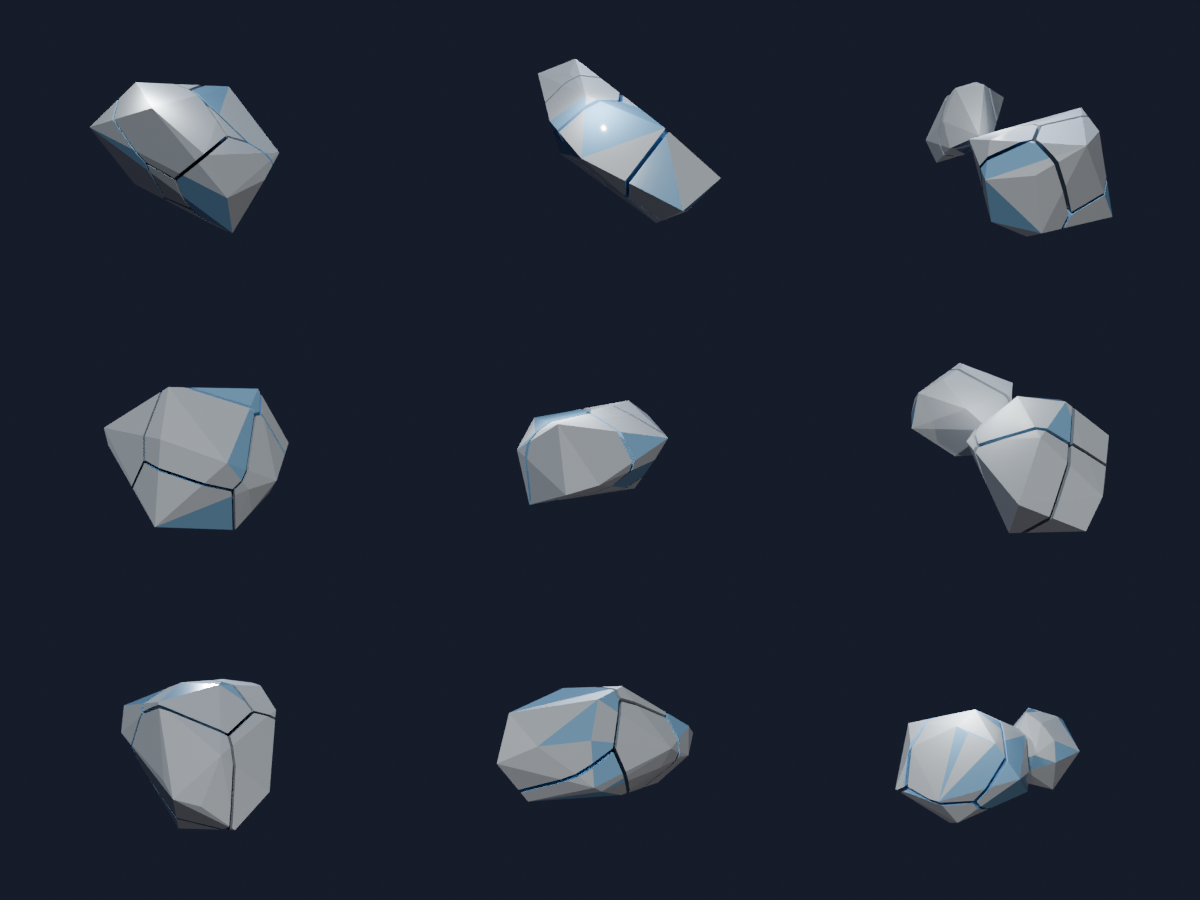
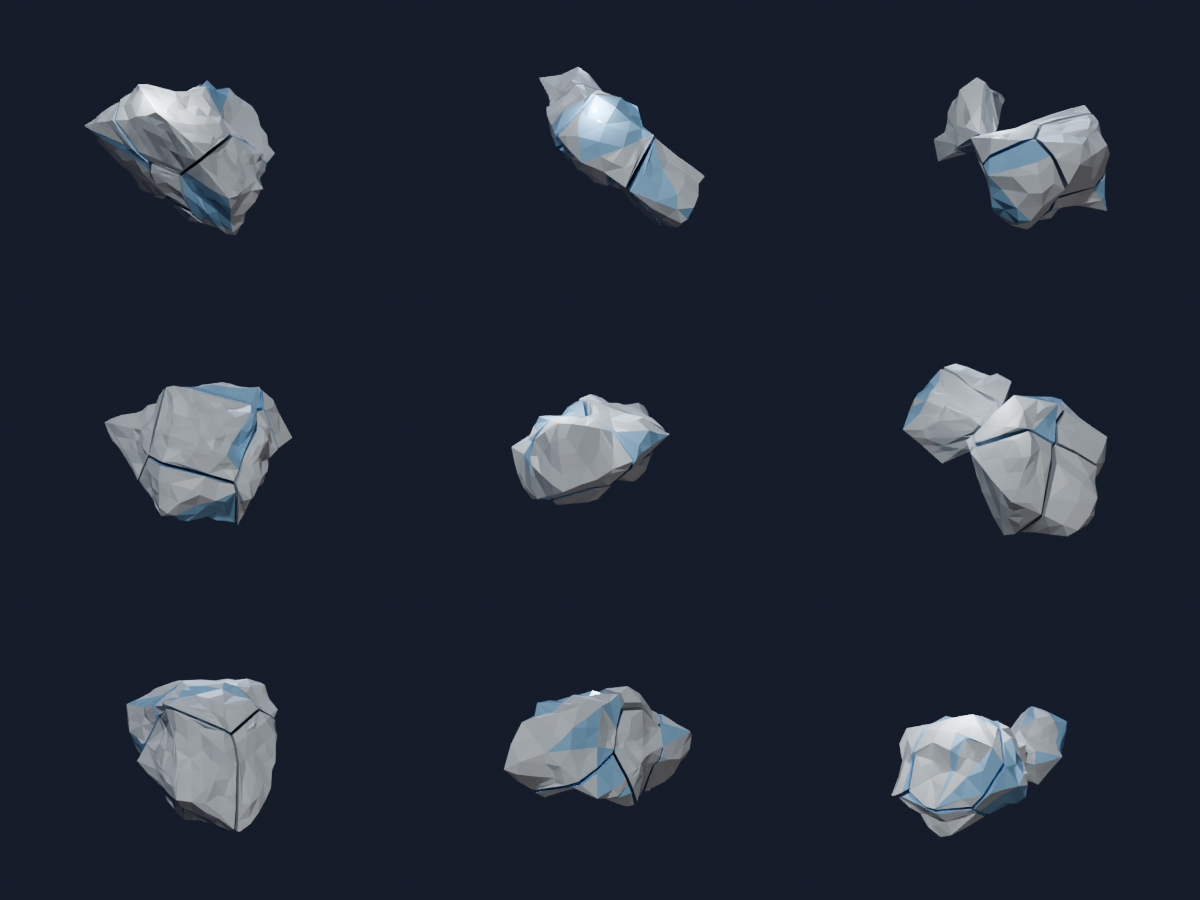
Asteroids: rough surface (noise, chips, craters) with a convex collider per chunk
surface.py breaks the big flat facets: the surface faces of every chunk are cut into smaller
triangles and pushed along the radial direction by world-space noise (two octaves plus a small
per-vertex chip) and by craters (bowl and rim). Because it only depends on the world position,
neighbouring chunks and sub-chunks match where they meet. Break faces stay flat.

The visible mesh is no longer convex, so each chunk gets a child "<name>_col-convcolonly"
(exact convex hull of its vertices) instead of the "-convcol" mesh suffix. New params:
roughness (0..1), craters (0..12). Tests check closed meshes, convex colliders that contain
their mesh, and sub-chunks close to their parent. Variant sheets and a close-up regenerated.

Claude-Session: https://claude.ai/code/session_0189xRjiiTMx3apXWGHbTKDT

diff --git a/shipgen/asteroids/__init__.py b/shipgen/asteroids/__init__.py
@@ -4,8 +4,9 @@
 
 The rock is the convex hull of random points (two hulls cut apart for a binary
 asteroid), split into Voronoi cells; cells bigger than about twice ``min_chunk_m``
-split again, down to ``max_levels``. Every chunk is convex, so in Godot it is its own
-convex collision shape (``-convcol`` suffix: mesh + collider).
+split again, down to ``max_levels``. Chunks are convex; their surface faces are then
+roughened (``surface.py``: smaller triangles, world-space noise, craters), so each chunk
+carries its own convex collider (``<name>_col-convcolonly``, the hull of its vertices).
 
 Hierarchy (what the game uses): ``Asteroid`` -> level-1 chunks (visible, they tile the
 whole rock) -> each chunk's own sub-chunks (hidden in Blender, in place; the .glb has all
@@ -34,9 +35,10 @@ from ..generator import clear as _clear
 from ..generator.materials import MATERIAL_PREFIX
 from . import geometry as geo
 from . import params as params_mod
+from . import surface as surface_mod
 
 COLLECTION = "ShipGen_Asteroid"
-SUFFIX = "-convcol"  # Godot: mesh + convex collision shape
+COL_SUFFIX = "_col-convcolonly"  # Godot: convex collision shape (child of the chunk's mesh)
 
 # density t/m^3, hardness (mining time factor, ore = 1), grade = resource share of a rich
 # chunk's volume, cargo kind as in the ships' stats, colours (surface, plain inside, resource)
@@ -64,6 +66,7 @@ class Chunk:
     rich: bool
     children: list["Chunk"] = field(default_factory=list)
     obj: object = None
+    collider: object = None
 
 
 @dataclass
@@ -79,7 +82,7 @@ class Asteroid:
 
     @property
     def objects(self):
-        return [self.root, *(c.obj for c in self.chunks)]
+        return [self.root, *(c.obj for c in self.chunks), *(c.collider for c in self.chunks)]
 
 
 def generate(raw_params: dict) -> Asteroid:
@@ -89,13 +92,13 @@ def generate(raw_params: dict) -> Asteroid:
     warnings = list(result.warnings)
     levels = p["max_levels"]
     while True:
-        tree, fractures = _fracture(p, levels)
-        tris = sum(_tris(c.points) for c in _walk(tree))
+        tree, fractures, surf = _fracture(p, levels)
+        rock = _build_objects(p, tree, fractures, surf)
+        tris = sum(len(poly.vertices) - 2 for c in rock.chunks for poly in c.obj.data.polygons)
         if tris <= p["max_tris"] or levels == 1:
             break
         levels -= 1
         warnings.append(f"max_levels reduced to {levels} to stay within max_tris ({tris} tris)")
-    rock = _build_objects(p, tree, fractures)
     rock.warnings = warnings
     return rock
 
@@ -129,10 +132,11 @@ def _base_pieces(p, rng) -> list[list[Vector]]:
     return [[(rot @ q) * scale for q in piece] for piece in pieces]
 
 
-def _fracture(p, levels: int) -> tuple[list[Chunk], list[tuple[Vector, float]]]:
-    """Chunk tree + every fracture plane (break faces lie on one of them)."""
+def _fracture(p, levels: int):
+    """Chunk tree, every fracture plane (break faces lie on one of them) and the rock surface."""
     rng = random.Random(f"{p['seed']}:{p['composition']}:asteroid")
     pieces = _base_pieces(p, rng)
+    surf = surface_mod.make_surface(p, pieces, random.Random(f"{p['seed']}:{p['composition']}:surface"))
     fractures: list[tuple[Vector, float]] = []
     total = sum(geo.volume(pc) for pc in pieces)
     top: list[Chunk] = []
@@ -158,20 +162,13 @@ def _fracture(p, levels: int) -> tuple[list[Chunk], list[tuple[Vector, float]]]:
 
     for chunk in top:
         split(chunk)
-    return top, fractures
+    return top, fractures, surf
 
 
 def _walk(chunks):
     for c in chunks:
         yield c
         yield from _walk(c.children)
-
-
-def _tris(points) -> int:
-    bm = geo.hull_bmesh(points)
-    n = sum(len(f.verts) - 2 for f in bm.faces)
-    bm.free()
-    return n
 
 
 # ---------------------------------------------------------------- objects and stats
@@ -200,7 +197,7 @@ def _on_fracture(n: Vector, d: float, fractures, tol: float, inset: float = 0.0)
     return False
 
 
-def _build_objects(p, tree: list[Chunk], fractures) -> Asteroid:
+def _build_objects(p, tree: list[Chunk], fractures, surf) -> Asteroid:
     _clear(COLLECTION)
     coll = bpy.data.collections.new(COLLECTION)
     bpy.context.scene.collection.children.link(coll)
@@ -222,15 +219,20 @@ def _build_objects(p, tree: list[Chunk], fractures) -> Asteroid:
             if _on_fracture(n, d, fractures, tol):
                 pts = geo.clip(pts, n, d - inset)
         bm = geo.hull_bmesh(pts)
+        layer = bm.faces.layers.int.new(surface_mod.FRACTURE_LAYER)
         rng = random.Random(f"{p['seed']}:vein:{chunk.name}")
         for f in bm.faces:
             if _on_fracture(f.normal, f.normal.dot(f.calc_center_median()), fractures, tol, inset):
+                f[layer] = 1
                 f.material_index = 2 if chunk.rich else 1
             else:
                 f.material_index = 2 if chunk.rich and rng.random() < VEIN_SHARE else 0
+        if p["roughness"] > 0 or p["craters"]:
+            surface_mod.roughen(bm, surf, 0.18 * geo.diameter(pts))
         c = geo.centroid([v.co for v in bm.verts])
         for v in bm.verts:
             v.co -= c
+        collider = _collider(chunk.name, [v.co for v in bm.verts], coll)
         mesh = bpy.data.meshes.new(chunk.name)
         bm.to_mesh(mesh)
         bm.free()
@@ -238,13 +240,15 @@ def _build_objects(p, tree: list[Chunk], fractures) -> Asteroid:
             mesh.materials.append(mats[key])
         for poly in mesh.polygons:
             poly.use_smooth = False
-        obj = bpy.data.objects.new(chunk.name + SUFFIX, mesh)
+        obj = bpy.data.objects.new(chunk.name, mesh)
         coll.objects.link(obj)
         obj.parent = parent
         obj.location = c - parent_c
+        collider.parent = obj
         hidden = chunk.level > 1
         obj.hide_viewport = obj.hide_render = hidden
-        chunk.obj = obj
+        collider.hide_viewport = hidden
+        chunk.obj, chunk.collider = obj, collider
         obj["asteroid_chunk"] = _chunk_stats(chunk, mesh, comp, p)
         for child in chunk.children:
             make(child, obj, c)
@@ -256,6 +260,20 @@ def _build_objects(p, tree: list[Chunk], fractures) -> Asteroid:
     root["shipgen_asteroid"] = {"seed": p["seed"], "composition": p["composition"], "shape": p["shape"],
                                 "stats": rock.stats}
     return rock
+
+
+def _collider(name: str, points, coll):
+    """Convex hull of the chunk's (displaced) vertices, as a Godot collision-only node."""
+    bm = geo.exact_hull_bmesh(points)
+    mesh = bpy.data.meshes.new(name + "_col")
+    bm.to_mesh(mesh)
+    bm.free()
+    obj = bpy.data.objects.new(name + COL_SUFFIX, mesh)
+    obj.display_type = "WIRE"
+    obj.hide_render = True
+    obj["shipgen_role"] = "collision"
+    coll.objects.link(obj)
+    return obj
 
 
 def _chunk_stats(chunk: Chunk, mesh, comp: dict, p) -> dict:

diff --git a/tests/test_asteroids.py b/tests/test_asteroids.py
@@ -1,4 +1,5 @@
-"""Asteroid generator: convex chunks that tile their parent, down to the minimum size."""
+"""Asteroid generator: chunks that tile their parent down to the minimum size, each with a
+convex collider that covers its (roughened) mesh."""
 
 import os
 import tempfile
@@ -38,6 +39,21 @@ class AsteroidTest(unittest.TestCase):
         bm.free()
         return closed, degenerate, convex, vol
 
+    @staticmethod
+    def covers(collider, obj) -> bool:
+        """Every vertex of ``obj`` inside the convex ``collider``: adding them to the collider's
+        points must not grow its hull (face normals of tiny triangles are too noisy to test)."""
+        def hull_volume(points):
+            bm = bmesh.new()
+            bmesh.ops.convex_hull(bm, input=[bm.verts.new(p) for p in points])
+            vol = abs(bm.calc_volume())
+            bm.free()
+            return vol
+
+        col = [v.co for v in collider.data.vertices]
+        base = hull_volume(col)
+        return hull_volume(col + [v.co for v in obj.data.vertices]) <= base * (1 + 1e-4)
+
     def test_every_kind(self):
         for comp in self.asteroids.params.COMPOSITIONS:
             for shape in self.asteroids.params.SHAPES:
@@ -47,11 +63,13 @@ class AsteroidTest(unittest.TestCase):
                     self.assertEqual(rock.warnings, [])
                     self.assertGreater(len(rock.parts), 1)
                     for c in rock.chunks:
-                        closed, degenerate, convex, _ = self.mesh_info(c.obj)
+                        closed, degenerate, _, _ = self.mesh_info(c.obj)
                         self.assertTrue(closed, f"{c.name}: open edges")
                         self.assertFalse(degenerate, f"{c.name}: degenerate faces")
-                        self.assertTrue(convex, f"{c.name}: not convex (needed for its collision shape)")
-                        self.assertTrue(c.obj.name.endswith("-convcol"))
+                        self.assertTrue(self.mesh_info(c.collider)[2], f"{c.name}: collider not convex")
+                        self.assertTrue(c.collider.name.endswith("-convcolonly"))
+                        self.assertIs(c.collider.parent, c.obj)
+                        self.assertTrue(self.covers(c.collider, c.obj), f"{c.name}: mesh outside its collider")
                     stats = rock.stats
                     self.assertAlmostEqual(stats["size_m"], 20, delta=0.5)
                     self.assertGreater(stats["yield_m3"], 0)
@@ -59,7 +77,7 @@ class AsteroidTest(unittest.TestCase):
 
     def test_chunks_tile_their_parent_down_to_the_minimum(self):
         p = {"composition": "ore", "size_m": 30, "seed": 5, "min_chunk_m": 4.0, "gap": 0.0, "max_levels": 6,
-             "max_tris": 500000}
+             "max_tris": 500000, "roughness": 0.0, "craters": 0}  # exact tiling needs the plain cells
         rock = self.asteroids.generate(p)
         for c in rock.chunks:
             size = c.obj["asteroid_chunk"]["size_m"]
@@ -75,6 +93,16 @@ class AsteroidTest(unittest.TestCase):
                 self.assertLess(size, 2 * p["min_chunk_m"] * 1.8, f"{c.name} big but not split")
         whole = sum(self.mesh_info(c.obj)[3] for c in rock.chunks if c.level == 1)
         self.assertAlmostEqual(rock.stats["volume_m3"], whole, delta=0.01 * whole)
+
+    def test_roughness_keeps_children_close_to_their_parent(self):
+        """Sub-chunks share the parent's surface (world-space noise): their volumes add up."""
+        rock = self.asteroids.generate({"size_m": 24, "seed": 6, "gap": 0.0})
+        for c in rock.chunks:
+            if c.children:
+                parent = self.mesh_info(c.obj)[3]
+                kids = sum(self.mesh_info(k.obj)[3] for k in c.children)
+                # the push is capped per chunk (thin chunks must not fold), so small ones differ a bit
+                self.assertAlmostEqual(kids / parent, 1.0, delta=0.15, msg=c.name)
 
     def test_same_seed_same_rock(self):
         a = self.asteroids.generate({"seed": 9}).stats
@@ -93,16 +121,18 @@ class AsteroidTest(unittest.TestCase):
         from shipgen import export
 
         rock = self.asteroids.generate({"seed": 4, "size_m": 16})
+        expected = [n for c in rock.chunks for n in (c.obj.name, c.collider.name)]
+        stats = rock.stats
         with tempfile.TemporaryDirectory() as tmp:
             path = export.export_glb(rock, os.path.join(tmp, "rock.glb"))
             bpy.ops.wm.read_factory_settings(use_empty=True)
             bpy.ops.import_scene.gltf(filepath=path)
             names = {o.name for o in bpy.data.objects}
-            for c in rock.chunks:
-                self.assertIn(c.name + "-convcol", names)
+            for name in expected:
+                self.assertIn(name, names)
             imported = bpy.data.objects["Asteroid"]
-            stats = imported["shipgen_asteroid"].to_dict()["stats"]
-            self.assertEqual(stats["chunks_per_level"], rock.stats["chunks_per_level"])
+            imported_stats = imported["shipgen_asteroid"].to_dict()["stats"]
+            self.assertEqual(imported_stats["chunks_per_level"], stats["chunks_per_level"])
 
     def test_presets_generate_cleanly(self):
         folder = os.path.join(ROOT, "presets", "asteroids")

diff --git a/shipgen/asteroids/surface.py b/shipgen/asteroids/surface.py
@@ -1,0 +1,97 @@
+"""Rough rock surface: breaks the big flat facets of the convex chunks.
+
+The surface faces of a chunk (not its break faces) are cut into smaller triangles and every
+vertex that touches the surface is pushed along the radial direction by world-space noise
+(two octaves) and by a few craters (bowl + low rim). Because the displacement depends only
+on the world position, neighbouring chunks and the sub-chunks of a chunk get the same
+surface where they meet: breaking a chunk doesn't change how the rock looks.
+
+The displaced mesh is no longer convex; each chunk's collider is the convex hull of its
+displaced vertices (a separate ``-convcolonly`` object).
+"""
+
+from __future__ import annotations
+
+import math
+import random
+from dataclasses import dataclass, field
+
+import bmesh
+from mathutils import Vector, noise
+
+from . import geometry as geo
+
+FRACTURE_LAYER = "fracture"  # int face layer: 1 on break faces (kept flat-ish, not subdivided)
+
+
+@dataclass
+class Surface:
+    centre: Vector
+    edge: float  # target edge length of the subdivided surface
+    amp: float  # noise amplitude (m), large octave; the small one is a third of it
+    freq: float
+    offset: Vector
+    craters: list = field(default_factory=list)  # (centre, radius, depth)
+
+    def displacement(self, p: Vector) -> float:
+        """Outward (+) / inward (-) push at world point ``p``."""
+        q = p * self.freq + self.offset
+        d = self.amp * noise.noise(q) + 0.5 * self.amp * noise.noise(q * 2.7 + Vector((7.3, 1.1, 4.2)))
+        # per-vertex jitter (a hash of the position, so neighbours that share a point agree):
+        # chips the facets into small, sharp, uneven planes
+        d += 0.22 * self.amp * noise.noise(p * 37.0 / self.edge + self.offset)
+        for c, r, depth in self.craters:
+            t = (p - c).length / r
+            if t < 1.0:
+                d -= depth * (1.0 - t * t)  # bowl
+            elif t < 1.35:
+                d += 0.25 * depth * math.sin(math.pi * (t - 1.0) / 0.35)  # rim
+        return d
+
+
+def make_surface(p, pieces, rng: random.Random) -> Surface:
+    pts = [q for piece in pieces for q in piece]
+    centre = geo.centroid(pts)
+    size = p["size_m"]
+    surf = Surface(centre=centre, edge=size / 10.0, amp=0.12 * size * p["roughness"],
+                   freq=4.0 / size, offset=Vector((rng.uniform(-50, 50) for _ in range(3))))
+    pls = [geo.planes(piece) for piece in pieces]
+    for _ in range(p["craters"]):
+        i = rng.randrange(len(pieces))
+        start = geo.centroid(pieces[i])
+        direction = Vector((rng.gauss(0, 1), rng.gauss(0, 1), rng.gauss(0, 1))).normalized()
+        # where the ray from the piece's centre leaves it (convex): the crater sits on its surface
+        t = min((d - n.dot(start)) / n.dot(direction) for n, d in pls[i] if n.dot(direction) > 1e-6)
+        r = rng.uniform(0.14, 0.3) * size
+        surf.craters.append((start + direction * t, r, rng.uniform(0.3, 0.45) * r))
+    return surf
+
+
+def roughen(bm, surf: Surface, limit: float) -> None:
+    """Subdivide the surface faces of ``bm`` (world space) and displace them; ``limit`` caps the
+    push (thin chunks must not fold over)."""
+    layer = bm.faces.layers.int.get(FRACTURE_LAYER)
+
+    def surface_face(f):
+        return f[layer] == 0
+
+    for _ in range(4):
+        long = [e for e in bm.edges
+                if e.calc_length() > surf.edge and all(surface_face(f) for f in e.link_faces)]
+        if not long:
+            break
+        bmesh.ops.subdivide_edges(bm, edges=long, cuts=1, use_grid_fill=True, use_single_edge=True)
+        bmesh.ops.triangulate(bm, faces=[f for f in bm.faces if surface_face(f) and len(f.verts) > 3])
+    moved = False
+    for v in bm.verts:
+        if not any(surface_face(f) for f in v.link_faces):
+            continue  # deep inside the rock: only break faces meet here
+        radial = v.co - surf.centre
+        if radial.length < 1e-9:
+            continue
+        d = max(-limit, min(limit, surf.displacement(v.co)))
+        v.co += radial.normalized() * d
+        moved = True
+    if moved:  # break faces that lost their planarity are split into triangles
+        bmesh.ops.triangulate(bm, faces=[f for f in bm.faces if not surface_face(f) and len(f.verts) > 3])
+    bmesh.ops.recalc_face_normals(bm, faces=bm.faces)

diff --git a/shipgen/asteroids/geometry.py b/shipgen/asteroids/geometry.py
@@ -23,6 +23,17 @@ def _scale(points) -> float:
     return max((hi - lo).length, 1e-9)
 
 
+def exact_hull_bmesh(points) -> bmesh.types.BMesh:
+    """Plain convex hull, every hull point kept (for colliders that must cover a mesh exactly)."""
+    bm = bmesh.new()
+    res = bmesh.ops.convex_hull(bm, input=[bm.verts.new(p) for p in points])
+    junk = list({g for g in res["geom_interior"] + res["geom_unused"] if isinstance(g, bmesh.types.BMVert)})
+    if junk:
+        bmesh.ops.delete(bm, geom=junk, context="VERTS")
+    bmesh.ops.recalc_face_normals(bm, faces=bm.faces)
+    return bm
+
+
 def hull_bmesh(points) -> bmesh.types.BMesh:
     """Closed convex hull of ``points`` with outward normals. Interior points are dropped,
     near-duplicates and slivers dissolved and coplanar triangles merged into one facet, so

diff --git a/shipgen/asteroids/params.py b/shipgen/asteroids/params.py
@@ -21,6 +21,8 @@ SCHEMA: dict[str, Any] = {
     "min_chunk_m": Field(float, 4.0, 0.5, 100.0, description="Chunks smaller than about twice this don't break further"),
     "max_levels": Field(int, 4, 1, 6, description="Break levels prepared in advance"),
     "richness": Field(float, 0.6, 0.0, 1.0, description="Share of chunks that carry the resource (rest is plain rock)"),
+    "roughness": Field(float, 0.5, 0.0, 1.0, description="Breaks the flat facets: bumps and dents (0 = clean facets)"),
+    "craters": Field(int, 4, 0, 12, description="Craters on the surface"),
     "gap": Field(float, 0.03, 0.0, 0.15, description="Crack width between chunks: gap x size_m / 2"),
     "max_tris": Field(int, 30000, 500, 500000, description="Triangle budget for all levels together"),
 }

diff --git a/CLAUDE.md b/CLAUDE.md
@@ -97,9 +97,11 @@ same class, mining and cargo type share the seed streams).
 - `shipgen/asteroids/` – asteroid generator (prototype, `docs/asteroids/README.md`): own schema
   (`params.py`, same `Field`/`validate` machinery), `geometry.py` (convex polytopes as point
   lists: hull, half-space clip, Voronoi cells), `__init__.py` (`generate`: faceted rock,
-  pre-fractured into convex chunks level by level down to `min_chunk_m`; every chunk is a
-  `-convcol` mesh, deeper levels parented under their chunk and hidden; per-chunk stats from
-  the mesh; `COMPOSITION` = ore/metal/ice constants). Presets in `presets/asteroids/`.
+  pre-fractured into convex chunks level by level down to `min_chunk_m`; surface faces roughened
+  by `surface.py` (world-space noise + craters, so neighbours and sub-chunks match); each chunk
+  has a convex `<name>_col-convcolonly` child (exact hull of its vertices); deeper levels are
+  parented under their chunk and hidden; per-chunk stats from the mesh; `COMPOSITION` =
+  ore/metal/ice constants). Presets in `presets/asteroids/`.
 - `shipgen/metrics.py` – top-view silhouette metrics (numpy rasteriser).
 - `shipgen/export.py` – `.glb`, `.blend`, Cycles previews (`three_quarter` and orthographic `top`).
 - `shipgen/ui.py` – sidebar panel "ShipGen"; properties generated from the schema
